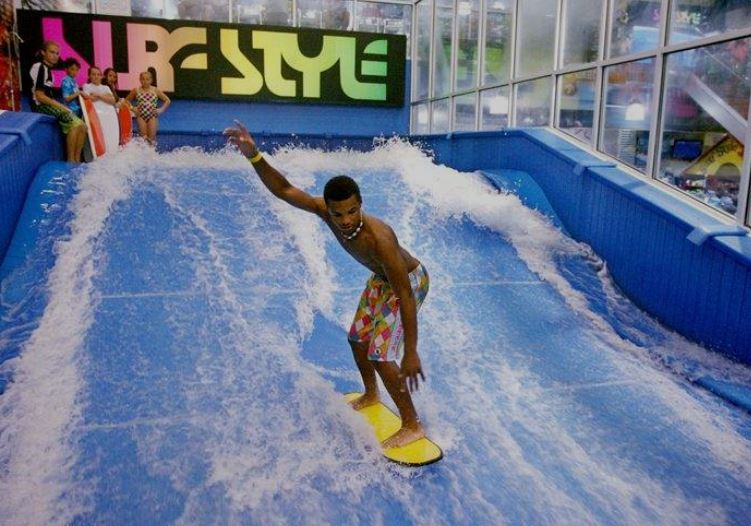
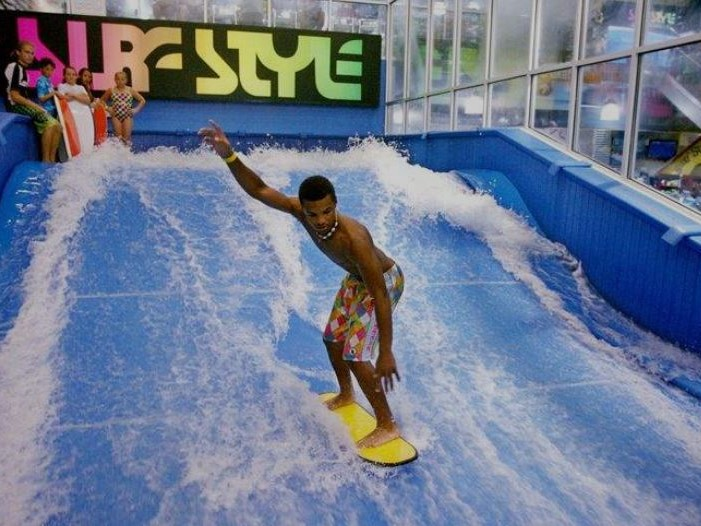
upload reezized imaged for blog, add img-fluid class to images remove CSS value

diff --git a/blog/templates/blog/blog.html b/blog/templates/blog/blog.html
@@ -30,9 +30,9 @@
                 <div class="card shadow card-sl">
                     <!-- Post image -->
                     {% if post.featured_image %}
-                    <img class="card-img-top mt-2 w-100 card-img-top-sl" src="{{ post.featured_image.url }}" alt="{{ post.title }} Image">
+                    <img class="card-img-top mt-2 img-fluid" src="{{ post.featured_image.url }}" alt="{{ post.title }} Image">
                     {% else %}
-                    <img class="card-img-top mt-2 w-100 card-img-top-sl" src="{% static 'img/noimage.jpg' %}" alt="Default Image">
+                    <img class="card-img-top mt-2 img-fluid" src="{% static 'img/noimage.jpg' %}" alt="Default Image">
                     {% endif %}
                     <div class="card-body">
                         <!-- Post title -->

diff --git a/blog/templates/blog/blog_detail.html b/blog/templates/blog/blog_detail.html
@@ -12,12 +12,6 @@
     </div>
 
     <div class="container mt-5">
-        <!-- <div class="row">
-            <div class="col-sm-8 my-2">
-            </div>
-        </div> -->
-
-        <!-- Blog Post -->
         <div class="container">
             <div class="row justify-content-center">
                 <div class="col-md-8 col-lg-6 mx-auto bg-light mt-5 rounded p-3">
